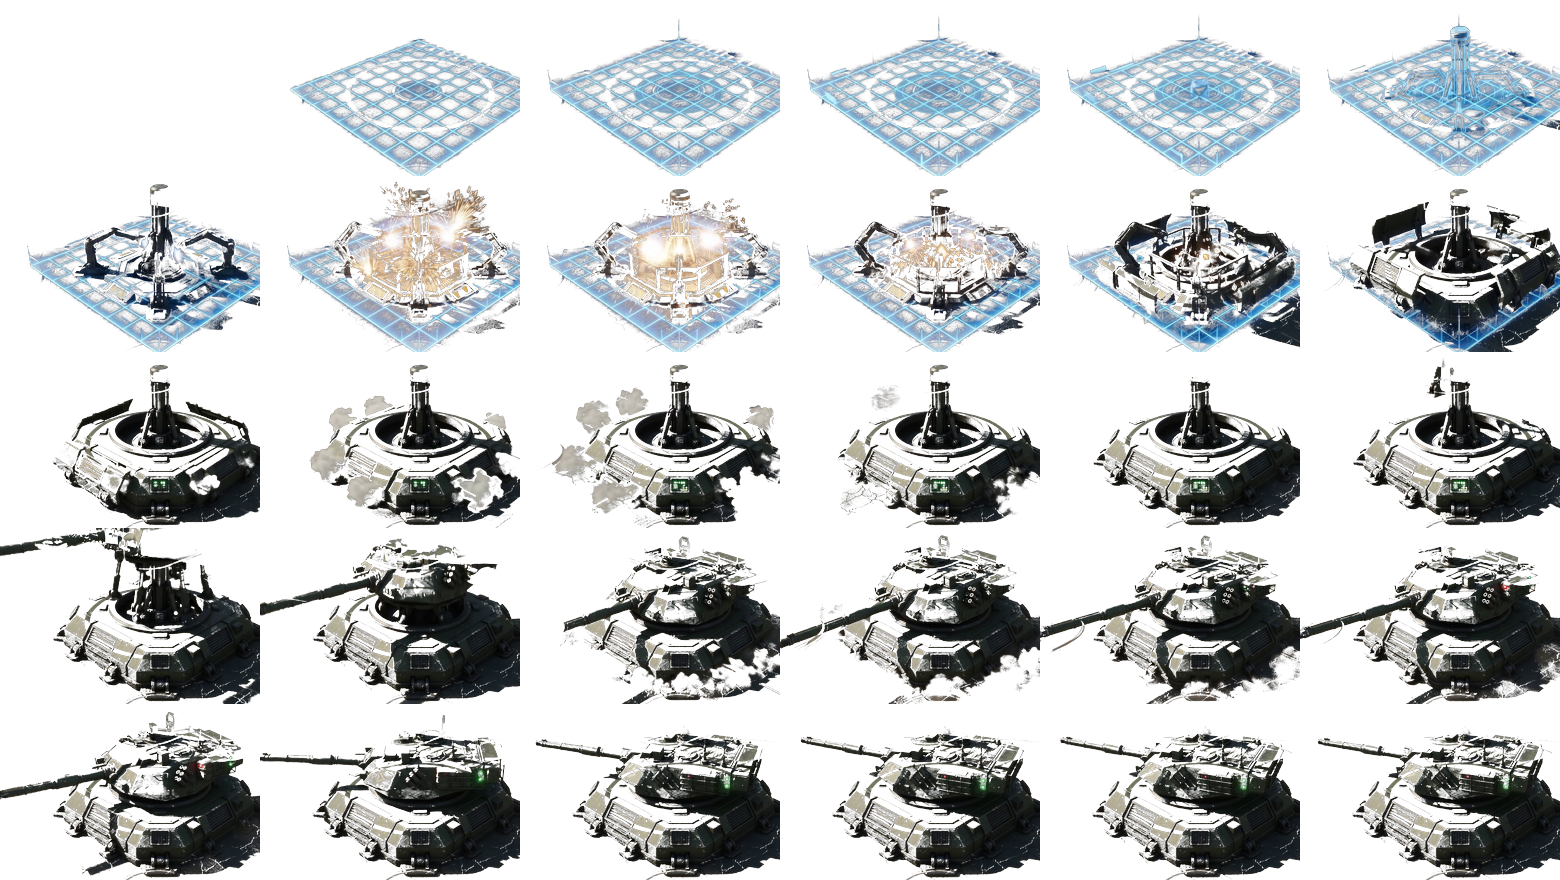
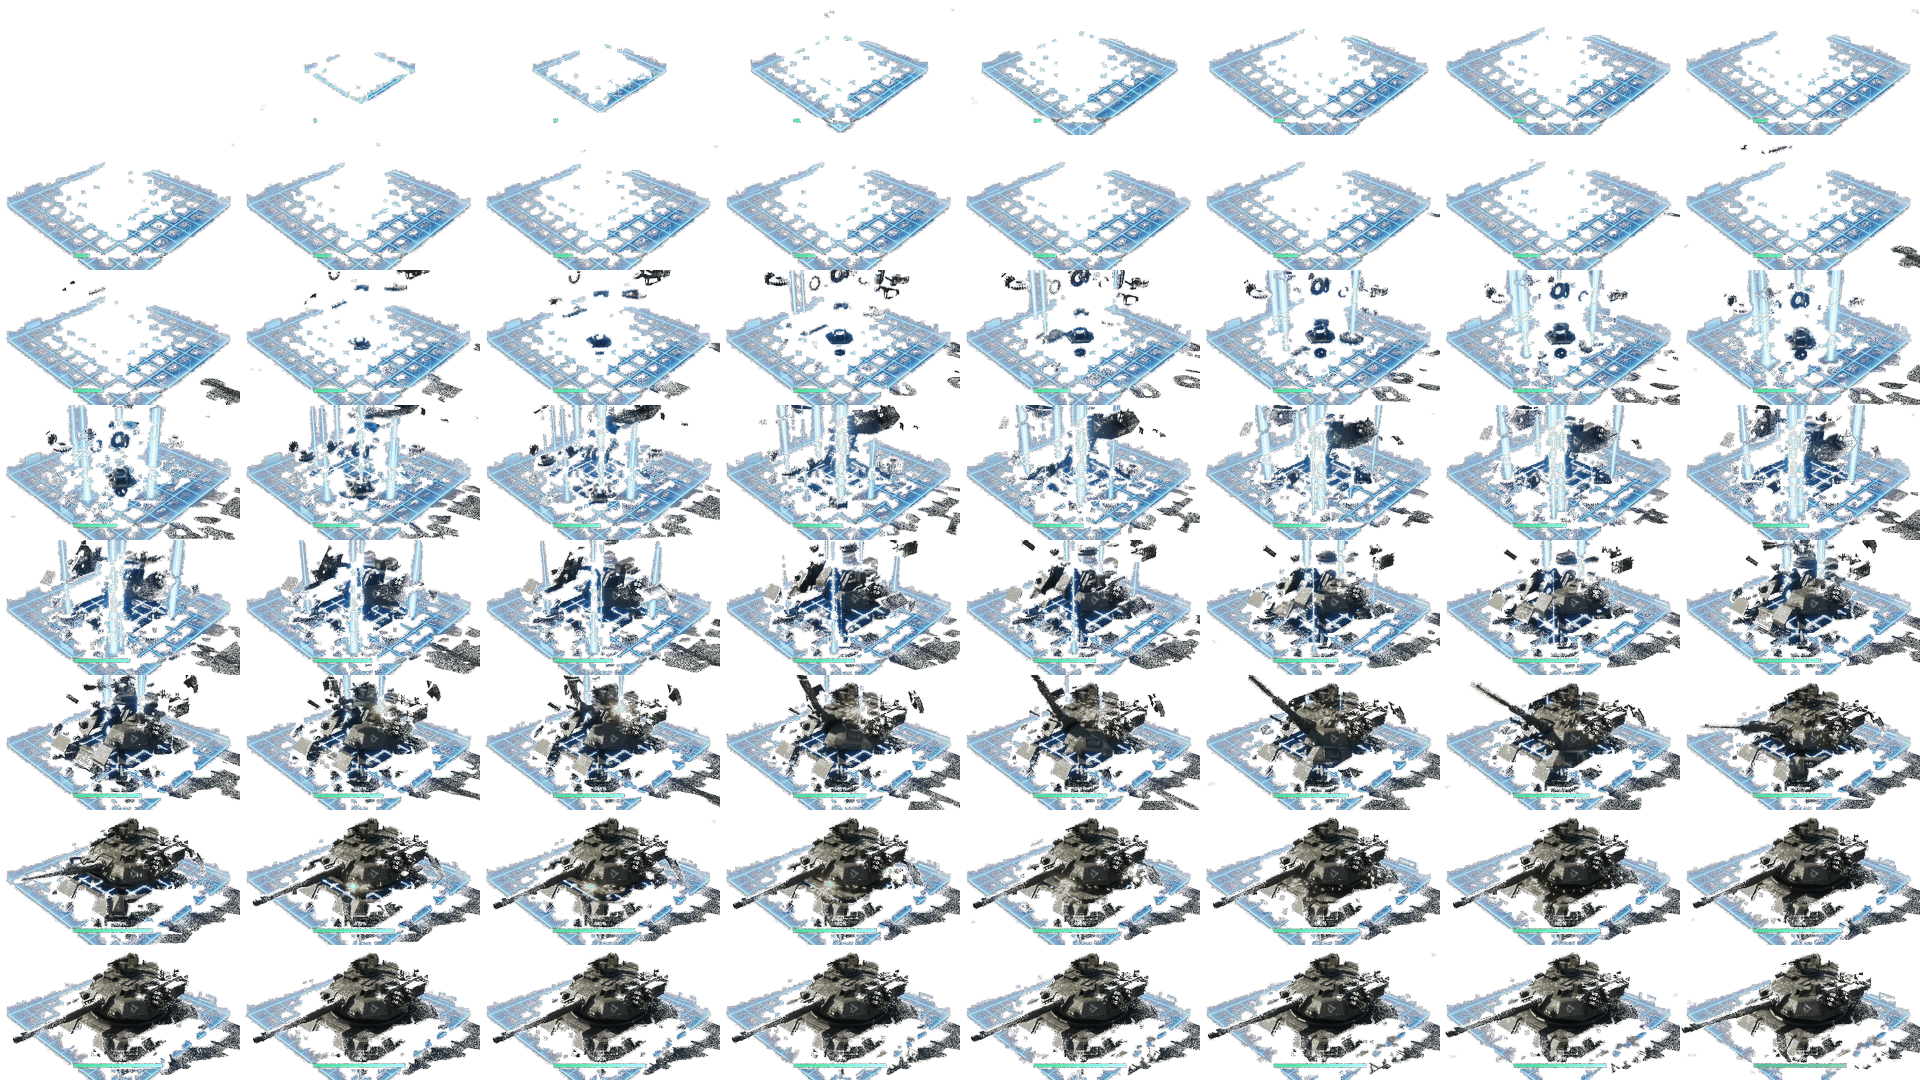
Replace the basic tower's build animation with a purpose-made one, and match its resting sprite to it
Per user follow-up: swaps the video-sourced build effect for a second,
purpose-made GIF (animaciones/Torreta Simple/torreta simple gif.gif,
480x270/64 frames/4s) that has its own progress-percentage bar baked in
-- main.js no longer draws a separate bar over the basic tower during
construction, only for double/laser (which still have no dedicated
footage). BUILD_DURATION moves from 3.5s to 4s to match the GIF's own
native runtime, keeping its baked-in percentages in sync with real
elapsed build time.

Per the user's other follow-up ("el último fotograma quiero que sea el
diseño final de la torreta... debemos cambiar también la imagen de la
torreta para que esté acorde con el video"), tower_basic.png is now
sourced from the SAME video's own last frame (extract_tower_basic in
tools/extract_assets.py) instead of the old, differently-styled render
in diseño torres/torre simple.jpg -- so the tower the build animation
settles into is actually the same model, not a design mismatch papered
over by the crossfade.

Not pushed yet -- more changes coming (per user, holding off on origin).

diff --git a/game/js/main.js b/game/js/main.js
@@ -152,21 +152,28 @@ const sprites = {
   projectile: loadImage("assets/projectile.png"),
 };
 
-// tower_basic_build.png is a 6x5 grid of 30 frames (see tools/extract_
+// tower_basic_build.png is an 8x8 grid of 64 frames (see tools/extract_
 // assets.py's extract_tower_basic_build) -- these must match its actual
 // layout. Only the basic tower has its own build animation; double/laser
 // still take BUILD_DURATION to finish (tower.js) but just fade in (see
 // drawTower's fallback below) since there's no footage for them.
-const BUILD_ANIM_COLS = 6;
-const BUILD_ANIM_ROWS = 5;
+//
+// This sheet's own frames already have a build-progress percentage bar
+// composited into them (per user request, using a second purpose-made
+// animation instead of the first video-sourced one, which didn't have
+// one) -- so unlike the fallback path, drawTowerBuilding does NOT also
+// draw its own progress bar over this tower type; that would double up.
+const BUILD_ANIM_COLS = 8;
+const BUILD_ANIM_ROWS = 8;
 const BUILD_ANIM_FRAME_COUNT = BUILD_ANIM_COLS * BUILD_ANIM_ROWS;
 // The last stretch of the build (in fraction-of-BUILD_DURATION terms)
 // crossfades from the animation's final frame into the tower's real
 // static sprite, so the switch reads as the effect settling rather than
-// a hard pop the instant construction finishes -- the animation's own
-// final frames (a fully assembled, but not identical, turret model)
-// don't pixel-match tower_basic.png, so a hard cut would be visible.
-const BUILD_CROSSFADE_FRACTION = 0.18;
+// a hard pop the instant construction finishes. tower_basic.png is now
+// sourced from this same animation's own last frame (extract_tower_basic
+// in tools/extract_assets.py), so this crossfade is mainly just settling
+// the hologram glow/progress-bar UI out, not a model swap.
+const BUILD_CROSSFADE_FRACTION = 0.1;
 
 function ready(img) {
   return img.complete && img.naturalWidth > 0;
@@ -421,10 +428,11 @@ function drawEnemy(e) {
 // extract_tower_basic_build), crossfading into the real static sprite
 // over the final BUILD_CROSSFADE_FRACTION of the build; every other type
 // has no footage to work with, so it just fades its own real sprite in
-// instead of popping in instantly. Either way, a progress bar takes the
-// place of the hp/ammo bars until construction finishes -- per user
-// request, so deploying a tower visibly takes effort rather than being
-// free.
+// instead of popping in instantly, with an hp/ammo-bar-replacing
+// progress bar main.js draws itself. The basic tower's animation frames
+// already have their OWN progress-percentage bar baked in (per user
+// request, from a second purpose-made source with one included), so
+// that fallback bar is skipped there -- drawing both would double up.
 function drawTowerBuilding(t) {
   const progress = 1 - t.buildTimeRemaining / BUILD_DURATION; // 0 -> 1
   const crossfadeStart = 1 - BUILD_CROSSFADE_FRACTION;
@@ -436,14 +444,16 @@ function drawTowerBuilding(t) {
     const row = Math.floor(frameIndex / BUILD_ANIM_COLS);
     const fw = sheet.naturalWidth / BUILD_ANIM_COLS;
     const fh = sheet.naturalHeight / BUILD_ANIM_ROWS;
-    // Bigger than the resting 68px-tall sprite: the animation's build
-    // ring/platform effect reads as spilling out past the turret itself.
-    const drawH = 110;
+    // Bigger than the resting 68px-tall sprite: the frame includes both
+    // the build platform (wider than the turret itself) and, below it,
+    // the baked-in progress bar, so the turret alone reads at roughly
+    // the same size as the resting sprite once this whole frame fits.
+    const drawH = 128;
     const drawW = drawH * (fw / fh);
     const animAlpha = progress >= crossfadeStart ? 1 - (progress - crossfadeStart) / BUILD_CROSSFADE_FRACTION : 1;
     ctx.save();
     ctx.globalAlpha = animAlpha;
-    ctx.drawImage(sheet, col * fw, row * fh, fw, fh, t.x - drawW / 2, t.y - drawH / 2, drawW, drawH);
+    ctx.drawImage(sheet, col * fw, row * fh, fw, fh, t.x - drawW / 2, t.y - drawH / 2 + 10, drawW, drawH);
     ctx.restore();
 
     if (progress >= crossfadeStart) {
@@ -457,20 +467,21 @@ function drawTowerBuilding(t) {
         ctx.restore();
       }
     }
-  } else {
-    const img = sprites[`tower_${t.type}`];
-    ctx.save();
-    ctx.globalAlpha = Math.max(0.15, progress);
-    if (ready(img)) {
-      const h = 68;
-      const w = h * (img.naturalWidth / img.naturalHeight);
-      ctx.drawImage(img, t.x - w / 2, t.y - h / 2, w, h);
-    } else {
-      ctx.fillStyle = t.type === "laser" ? "#8a6a3a" : "#888";
-      ctx.fillRect(t.x - 14, t.y - 10, 28, 20);
-    }
-    ctx.restore();
+    return;
   }
+
+  const img = sprites[`tower_${t.type}`];
+  ctx.save();
+  ctx.globalAlpha = Math.max(0.15, progress);
+  if (ready(img)) {
+    const h = 68;
+    const w = h * (img.naturalWidth / img.naturalHeight);
+    ctx.drawImage(img, t.x - w / 2, t.y - h / 2, w, h);
+  } else {
+    ctx.fillStyle = t.type === "laser" ? "#8a6a3a" : "#888";
+    ctx.fillRect(t.x - 14, t.y - 10, 28, 20);
+  }
+  ctx.restore();
 
   const barW = 54;
   ctx.fillStyle = "#223";

diff --git a/game/js/tower.js b/game/js/tower.js
@@ -20,11 +20,15 @@ export const TOWER_TYPES = {
 // How long a freshly-placed tower spends "under construction" before it
 // can target/fire, per user request for a Command & Conquer/Dune
 // 2000-style build effect that visibly takes effort to deploy rather
-// than appearing instantly. Only the basic tower has its own build
-// animation today (game/assets/tower_basic_build.png -- see main.js),
-// but the delay itself applies to every type so double/laser aren't
-// placed "for free" faster than basic while they still just fade in.
-export const BUILD_DURATION = 3.5;
+// than appearing instantly. Matches the basic tower's build-animation
+// GIF's own native runtime (4s/64 frames -- see main.js and tools/
+// extract_assets.py's extract_tower_basic_build) exactly, so the
+// percentage the animation's own baked-in progress bar shows stays in
+// sync with real elapsed build time. Only the basic tower has its own
+// build animation today, but the delay itself applies to every type so
+// double/laser aren't placed "for free" faster than basic while they
+// still just fade in (see main.js's drawTowerBuilding).
+export const BUILD_DURATION = 4;
 
 export function createTower(type, x, y) {
   const def = TOWER_TYPES[type];

diff --git a/tools/extract_assets.py b/tools/extract_assets.py
@@ -184,7 +184,8 @@ def extract_towers():
     """
     sources = {
         # (filename stem, barrel direction in the source image)
-        "tower_basic": ("torre simple", "down"),
+        # tower_basic isn't sourced here any more -- see extract_tower_basic(),
+        # which matches it to the build-animation video's own turret model.
         "tower_double": ("torre doble", "up"),
         "tower_laser": ("torre laser", "up"),
     }
@@ -504,32 +505,22 @@ def extract_map_level3():
     im.save(OUT / "map_bg_level3.jpg", quality=88, optimize=True)
 
 
-def extract_tower_basic_build():
-    """Build-up animation sprite sheet for the basic tower, per user
-    request to give placing a tower a brief Command & Conquer / Dune
-    2000-style "materializing" effect instead of it just appearing
-    instantly. Source is a 10s/24fps cinematic 3D render
-    (animaciones/animación torreta simple.mp4) of the turret assembling
-    on a busy ruined-city street -- a full live-action-style scene, not a
-    transparent sprite, so the street/traffic has to be keyed out.
+def extract_tower_basic():
+    """The basic tower's resting sprite, per user follow-up request ("el
+    último fotograma quiero que sea el diseño final de la torreta...
+    debemos cambiar también la imagen de la torreta para que esté acorde
+    con el video") -- the turret model shown once construction finishes
+    (see extract_tower_basic_build below) now has to MATCH this sprite,
+    not the differently-styled one tower_basic.png used before (that one
+    came from a separate photoshoot, diseño torres/torre simple.jpg; see
+    extract_towers, which no longer sources "basic" from there).
 
-    The keying trick: the camera is locked the whole clip, and the
-    street is essentially still (just road/buildings) in frame 0, before
-    anything starts appearing -- diffing every later frame against frame
-    0 isolates "what's new" (the holographic build platform, the turret,
-    its smoke/sparks). A flat color-distance threshold alone still let
-    through shadow drift and passing cars anywhere in frame (one produced
-    a visible ghost blob), so the result is further restricted to
-    whichever alpha region is connected to a seed patch at the crop's
-    center -- the turret always sits there, so it survives, while any
-    unconnected car/shadow blob elsewhere in frame gets dropped even
-    though it individually crossed the diff threshold.
-
-    30 frames sampled evenly across the full clip (so the whole assembly
-    sequence -- platform, sparks, smoke, final turret -- plays, per user
-    request for the "completo/cinematográfico" pacing option), downscaled
-    and packed into a 6x5 grid sheet (see game/js/main.js's BUILD_ANIM_*
-    constants, which must match COLS/ROWS/frame size below).
+    Rather than re-key the user's own exported "fotograma final" stills
+    (different, unknown crop from the source video, so there's no
+    matching "before" plate to diff against), this reuses the exact same
+    clean-plate keying extract_tower_basic_build() uses on the video's
+    OWN last frame -- guaranteed pixel-perfect same model/pose as the
+    animation's own final frame, which is the whole point.
     """
     import cv2
 
@@ -542,45 +533,124 @@ def extract_tower_basic_build():
         ok, frame_bgr = cap.read()
         if not ok:
             raise RuntimeError(f"couldn't read frame {idx}")
-        return np.array(Image.fromarray(frame_bgr[:, :, ::-1]))  # BGR -> RGB
+        return np.array(Image.fromarray(frame_bgr[:, :, ::-1]))
 
-    CROP = (150, 120, 950, 660)  # x0, y0, x1, y1, in source frame coords
-    N, COLS, ROWS = 30, 6, 5
-    FRAME_W, FRAME_H = 260, 176
-
+    CROP = (150, 120, 950, 660)
     bg = read_frame(0).astype(int)
     bg_crop = bg[CROP[1]:CROP[3], CROP[0]:CROP[2]]
     h, w = bg_crop.shape[:2]
     cy, cx = h // 2, w // 2
 
-    def key_frame(idx):
-        im = read_frame(idx).astype(int)
-        crop = im[CROP[1]:CROP[3], CROP[0]:CROP[2]]
-        diff = np.abs(crop - bg_crop).sum(axis=2)
+    im = read_frame(total - 1).astype(int)
+    crop = im[CROP[1]:CROP[3], CROP[0]:CROP[2]]
+    diff = np.abs(crop - bg_crop).sum(axis=2)
+    low, high = 70, 170
+    alpha = np.clip((diff - low) / (high - low), 0, 1)
+    mask = alpha > 0.05
+    if mask.any():
+        labeled, _ = ndimage.label(mask, structure=np.ones((3, 3), dtype=bool))
+        seed_r = 90
+        seed_labels = set(labeled[cy - seed_r:cy + seed_r, cx - seed_r:cx + seed_r].flatten().tolist())
+        seed_labels.discard(0)
+        alpha = np.where(np.isin(labeled, list(seed_labels)), alpha, 0.0) if seed_labels else np.zeros_like(alpha)
+    cap.release()
 
-        low, high = 70, 170
-        alpha = np.clip((diff - low) / (high - low), 0, 1)
+    alpha_u8 = (alpha * 255).astype(np.uint8)
+    rgb = crop.astype(np.uint8).copy()
+    rgb[alpha_u8 == 0] = 0
+    keyed = Image.fromarray(np.dstack([rgb, alpha_u8]), mode="RGBA")
+
+    # Source barrel points left; the game's rotation convention is
+    # angle=0 -> barrel points +x (right), same reasoning as extract_towers().
+    rotated = keyed.rotate(180, expand=True)
+    trimmed = rotated.crop(rotated.getbbox())
+    downscale(trimmed).save(OUT / "tower_basic.png")
+
+
+def extract_tower_basic_build():
+    """Build-up animation sprite sheet for the basic tower, per user
+    request to give placing a tower a brief Command & Conquer / Dune
+    2000-style "materializing" effect instead of it just appearing
+    instantly, and per their follow-up request to use a second, purpose-
+    made animation with its own baked-in progress-percentage UI instead
+    of the first (video) attempt (see game/js/main.js: the code no longer
+    draws its own progress bar over this tower type, since this source
+    already has one).
+
+    Source is animaciones/Torreta Simple/torreta simple gif.gif, 480x270
+    /64 frames/4s -- a live-action-style render (same turret model/scene
+    as the original build video) with a UI progress bar composited in,
+    not a transparent sprite, so the street still has to be keyed out.
+
+    Unlike the original video, this GIF has no genuinely empty "before"
+    frame to diff against (frame 0 already shows the 0%-complete
+    hologram) -- frame 0 is used as the reference anyway, since the
+    hologram there is a thin, mostly-see-through wireframe that still
+    reveals most of the underlying street, and every later frame differs
+    from it far more than frame-0-vs-itself ever could. Cleaned up with:
+    - a stricter low/high diff threshold than the video needed (this
+      source's road texture carries more compression speckle),
+    - a binary-opening/closing pass to kill small isolated noise flecks
+      before labeling (a flat threshold alone still left visible speckle
+      once composited over real game terrain),
+    - connected-component filtering seeded from TWO regions (the turret/
+      platform, and the progress-bar UI) rather than one, since the bar
+      sits a few pixels below the platform and isn't always
+      pixel-connected to it.
+
+    All 64 frames are kept (no resampling down, unlike the video's 240 ->
+    30 -- this source is already a sparser, purpose-built sequence) and
+    packed into an 8x8 grid sheet (see game/js/main.js's BUILD_ANIM_*
+    constants, which must match COLS/ROWS/frame size below).
+    """
+    src = ROOT / "animaciones" / "Torreta Simple" / "torreta simple gif.gif"
+    gif = Image.open(src)
+    total = gif.n_frames
+
+    gif.seek(0)
+    bg = np.array(gif.convert("RGB")).astype(int)
+
+    # y, x slices, in the GIF's own 480x270 frame -- the platform/turret
+    # (roughly centered, a bit above frame-center) and the progress bar
+    # (fixed near the bottom), see the docstring above.
+    SEED_TURRET = (slice(20, 230), slice(10, 470))
+    SEED_BAR = (slice(200, 260), slice(110, 370))
+    LOW, HIGH, OPEN_ITERS = 70, 150, 2
+    COLS, ROWS = 8, 8
+    FRAME_W, FRAME_H = 240, 135
+
+    def key_frame(idx):
+        gif.seek(idx)
+        im = np.array(gif.convert("RGB")).astype(int)
+        diff = np.abs(im - bg).sum(axis=2)
+        alpha = np.clip((diff - LOW) / (HIGH - LOW), 0, 1)
+
+        hard = diff > LOW
+        opened = ndimage.binary_opening(hard, structure=np.ones((3, 3), dtype=bool), iterations=OPEN_ITERS)
+        # Opening erodes the true edge along with the noise -- grow it
+        # back out, but only into pixels that were already above the raw
+        # threshold, so this restores the real boundary without
+        # re-admitting the pruned speckle.
+        opened = ndimage.binary_dilation(opened, structure=np.ones((3, 3), dtype=bool), iterations=OPEN_ITERS) & hard
+        alpha = np.where(opened, alpha, 0.0)
 
         mask = alpha > 0.05
         if mask.any():
             labeled, _ = ndimage.label(mask, structure=np.ones((3, 3), dtype=bool))
-            seed_r = 90
-            seed_labels = set(labeled[cy - seed_r:cy + seed_r, cx - seed_r:cx + seed_r].flatten().tolist())
+            seed_labels = set(labeled[SEED_TURRET].flatten().tolist()) | set(labeled[SEED_BAR].flatten().tolist())
             seed_labels.discard(0)
             alpha = np.where(np.isin(labeled, list(seed_labels)), alpha, 0.0) if seed_labels else np.zeros_like(alpha)
 
         alpha_u8 = (alpha * 255).astype(np.uint8)
-        rgb = crop.astype(np.uint8).copy()
+        rgb = im.astype(np.uint8).copy()
         rgb[alpha_u8 == 0] = 0
         out = Image.fromarray(np.dstack([rgb, alpha_u8]), mode="RGBA")
         return out.resize((FRAME_W, FRAME_H), Image.Resampling.LANCZOS)
 
-    indices = [round(i * (total - 1) / (N - 1)) for i in range(N)]
     sheet = Image.new("RGBA", (FRAME_W * COLS, FRAME_H * ROWS), (0, 0, 0, 0))
-    for i, idx in enumerate(indices):
-        frame = key_frame(idx)
+    for i in range(total):
+        frame = key_frame(i)
         sheet.paste(frame, ((i % COLS) * FRAME_W, (i // COLS) * FRAME_H), frame)
-    cap.release()
 
     sheet.save(OUT / "tower_basic_build.png")
 
@@ -609,6 +679,7 @@ if __name__ == "__main__":
     extract_map()
     extract_map_level2()
     extract_map_level3()
+    extract_tower_basic()
     extract_tower_basic_build()
     extract_armor_icon()
     print("Assets written to", OUT)
